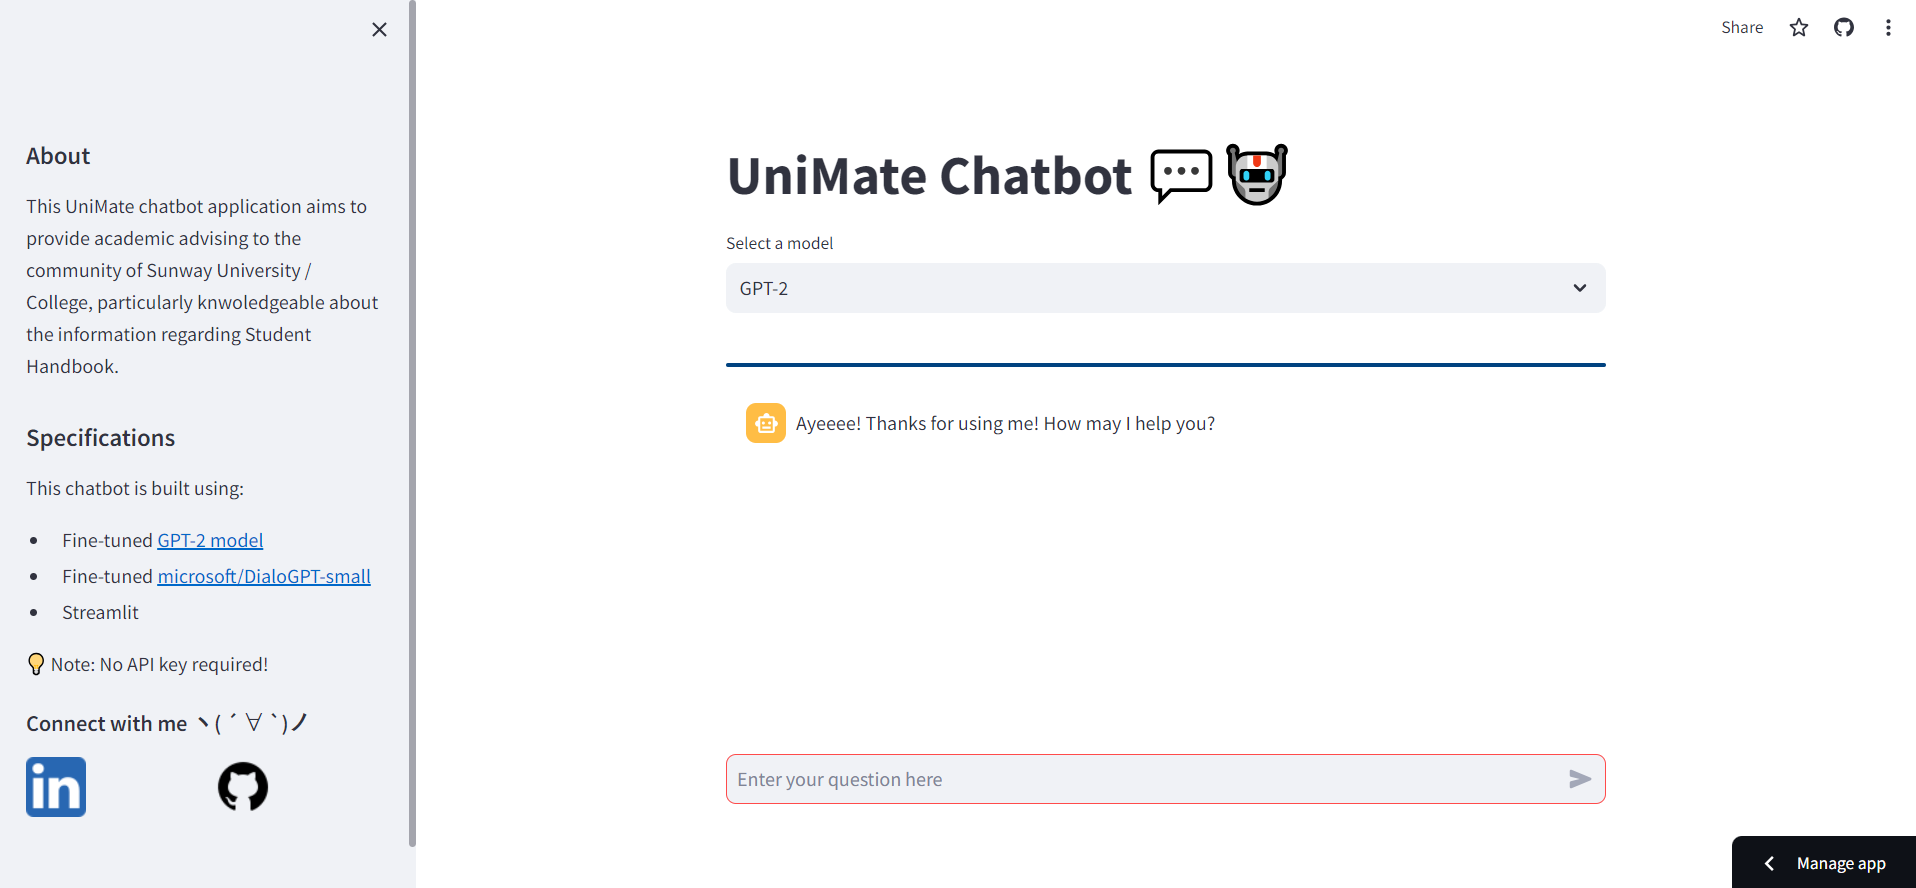
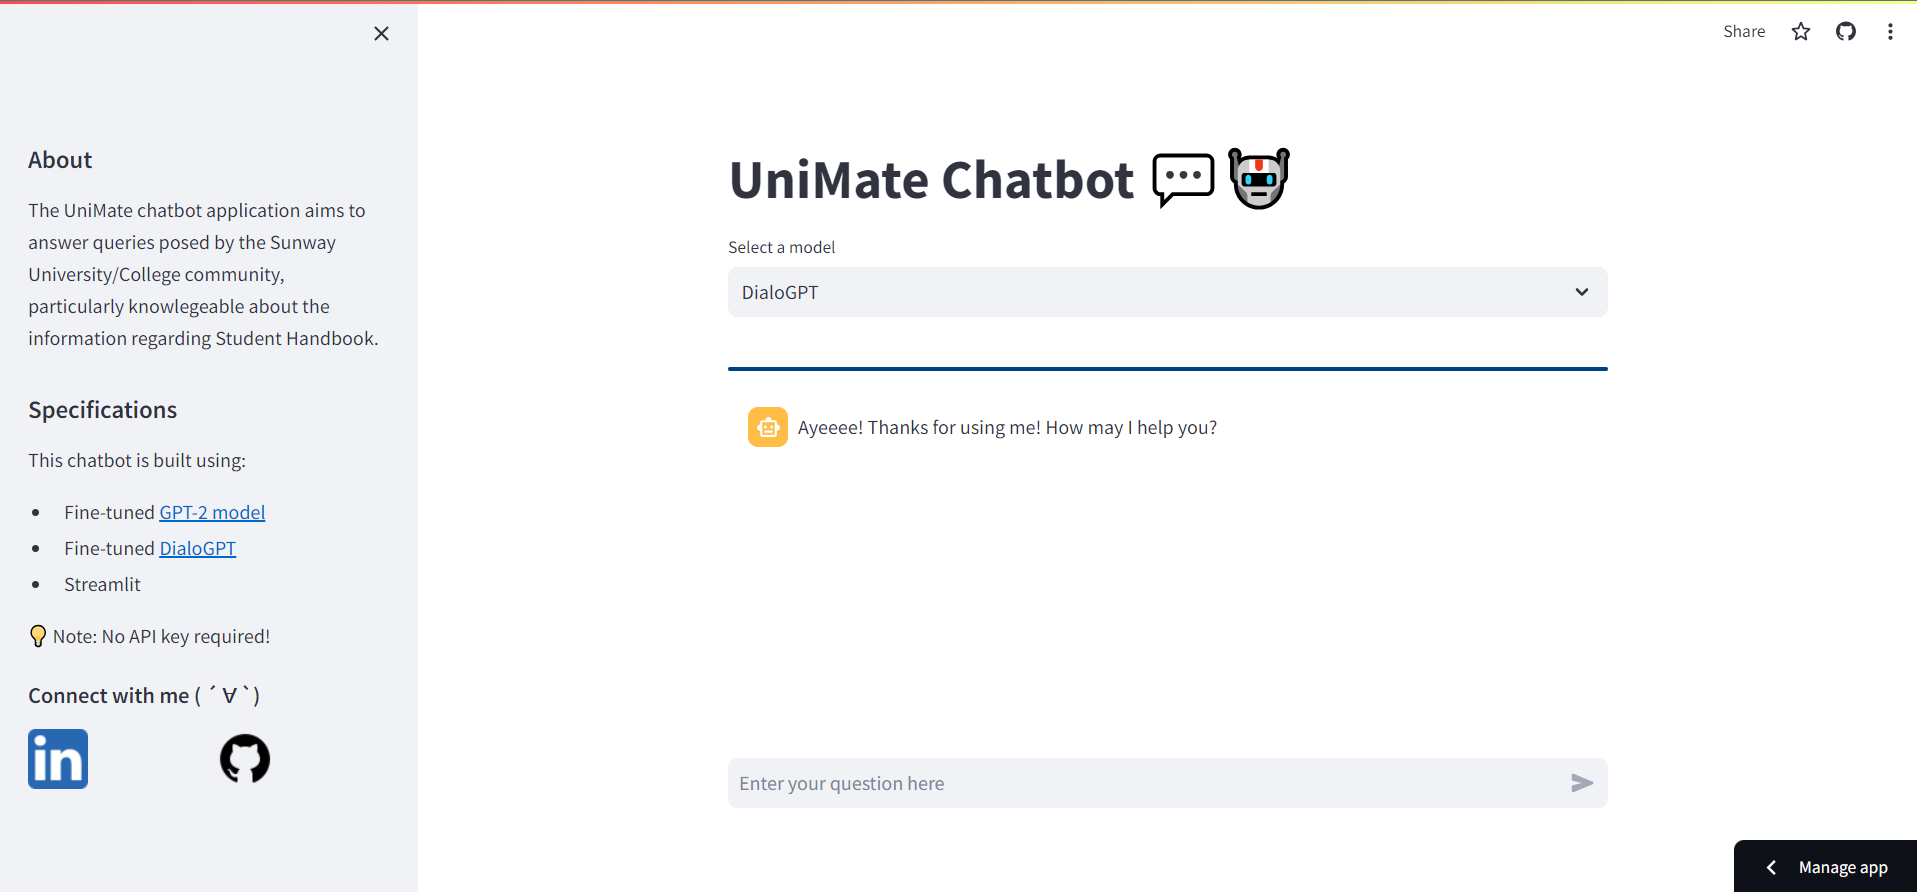
made minor changed

diff --git a/streamlit_app.py b/streamlit_app.py
@@ -111,11 +111,11 @@ def query(payload, maxLength, model, tokenizer):
 # Function for generating LLM response from GPT-2 model
 def gpt2QA_generate_response(prompt):
 
-    # Using local embeddings
-    #context = find_context(prompt) #from using local embeddings.py 
+    # Option 1: Using local embeddings
+    context = find_context(prompt)
 
-    # Using langchain's embeddings retrived from Pinecone vector database
-    context = get_similar_docs(prompt) 
+    # Option 2: Using langchain's embeddings method to retrieved documetns from Pinecone vector database
+    #context = get_similar_docs(prompt) 
 
     result = gpt2QA_question_answerer(question=prompt, context=context)
 

diff --git a/README.md b/README.md
@@ -17,5 +17,14 @@ This chatbot aids the community of Sunway University / College in answering quer
     2. Wait for the UniMate chatbot's dependencies to load properly. 
     3. Choose a model, then enter your prompt and observe the response generated. 
 
+## Remark 
+- Create a file named **secrets.toml** to add the secret keys for OpenAI's API key and Pinecone API key as 
+    ```
+    OPENAI_API_KEY = "your-openai-api-key"
+    PINECONE_API_KEY = "your-pinecone-api-key"
+    ```
+- Remember to add your secret keys to the application running on Streamlit Cloud. 
+- Refer to the [documentation](https://docs.streamlit.io/streamlit-community-cloud/deploy-your-app/secrets-management) for more information. 
+
 ## Screenshot of UniMate
 ![A sceenhshoot of the UniMate Chatbot](./assets/unimate-interface.png)
